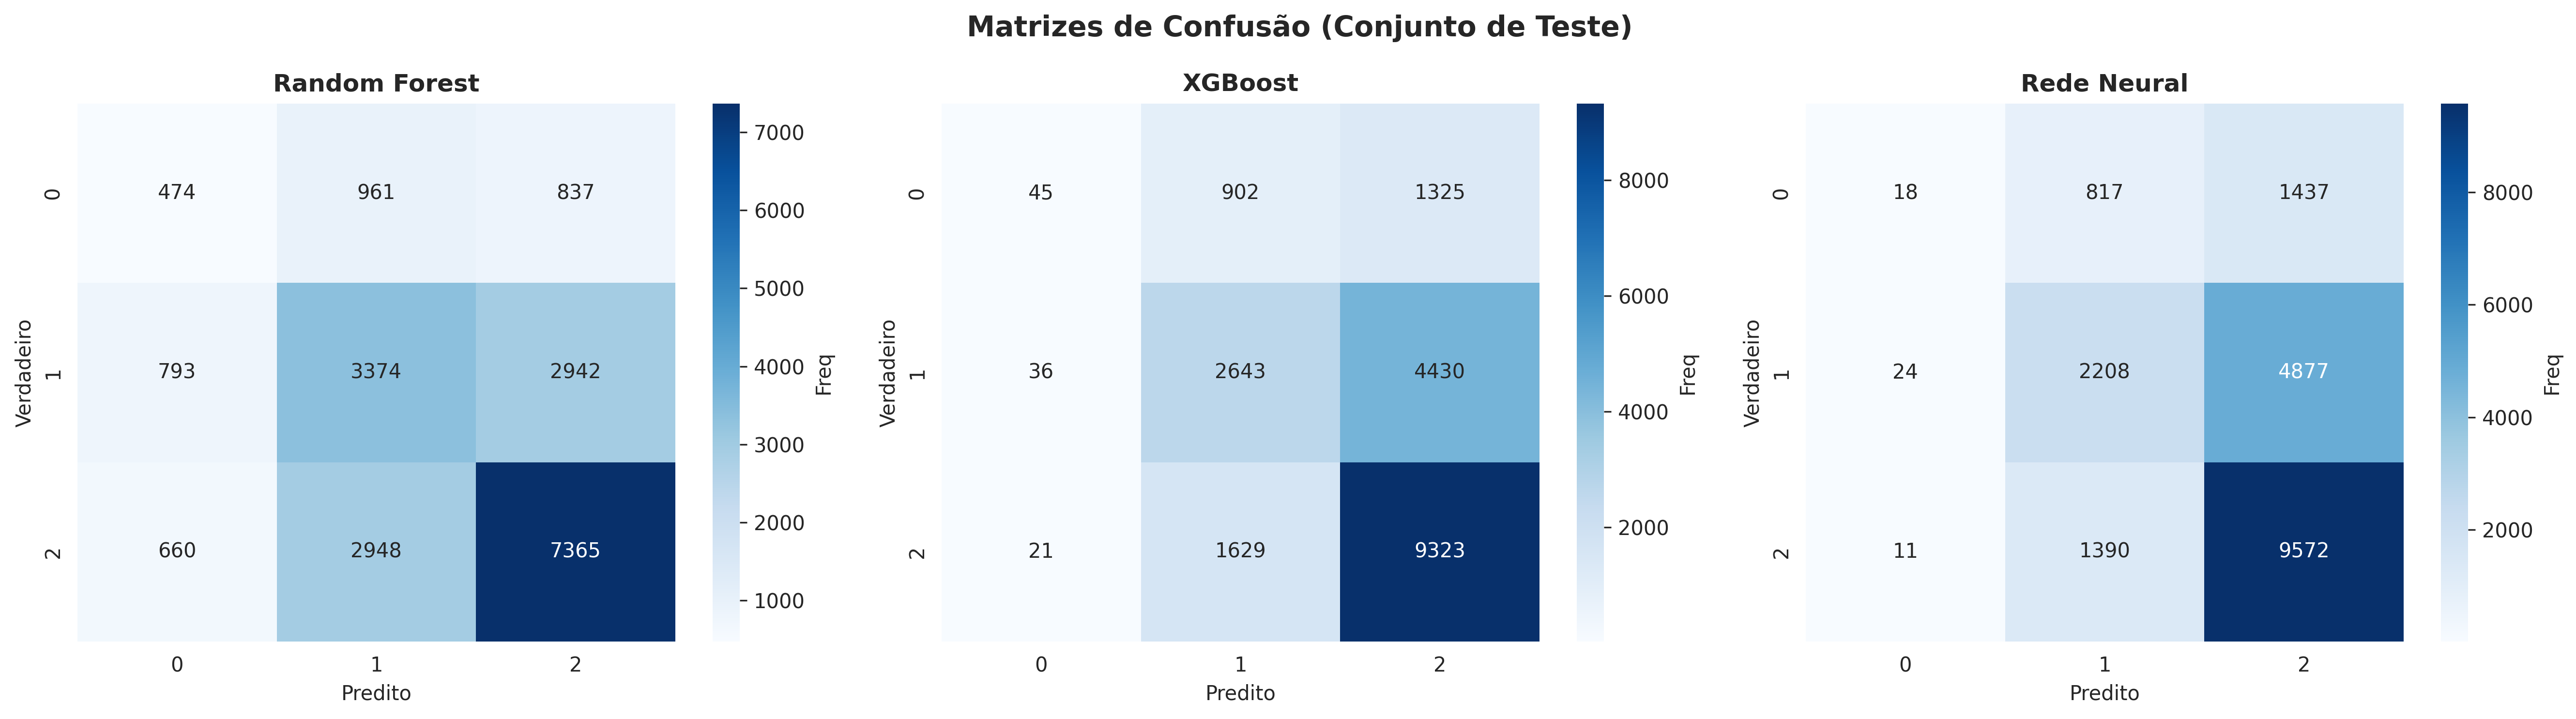
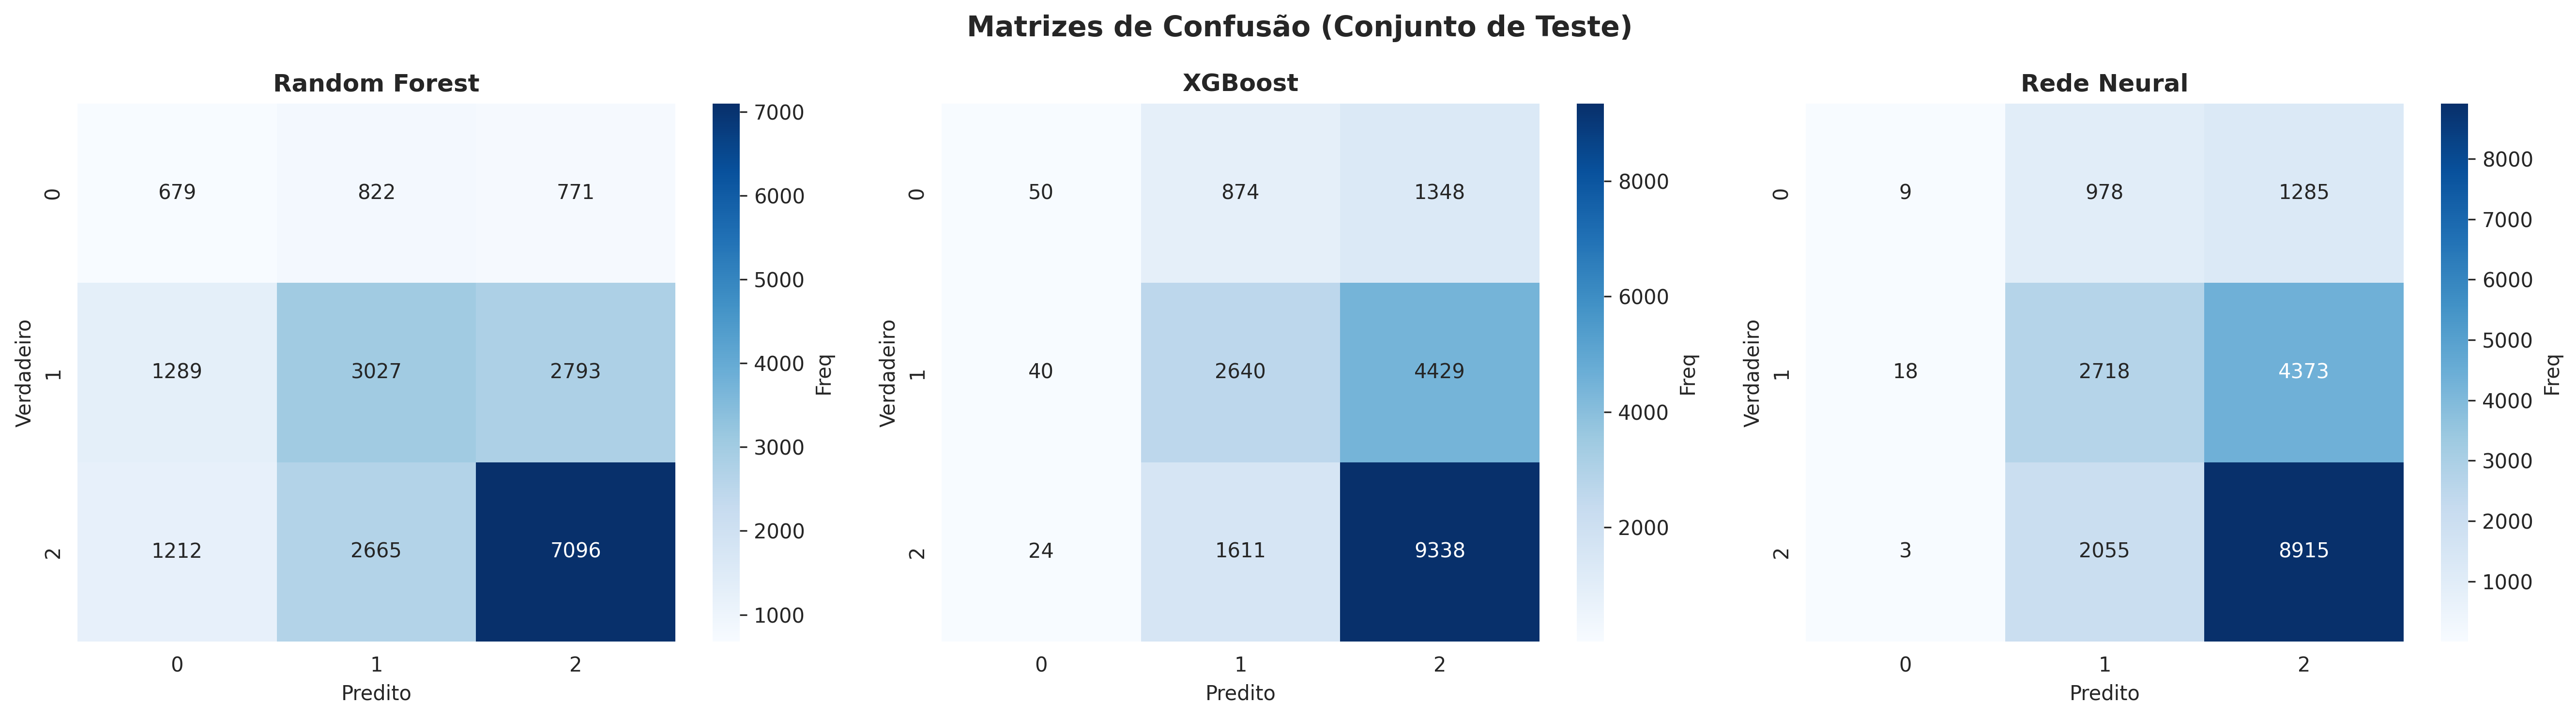
Use one-hot encoding for categorical features and fix absolute paths

diff --git a/src/preprocess_diabetes.py b/src/preprocess_diabetes.py
@@ -1,12 +1,42 @@
-#Preprocessamento do Dataset Diabetes 130-US Hospitals for Years 1999-2008
-#Dataset: https://archive.ics.uci.edu/dataset/296/diabetes+130-us+hospitals+for+years[phone redacted]
+# Preprocessamento do Dataset Diabetes 130-US Hospitals for Years 1999-2008
+# Dataset: https://archive.ics.uci.edu/dataset/296/diabetes+130-us+hospitals+for+years[phone redacted]
 
-import pandas as pd
-import numpy as np
-from sklearn.preprocessing import LabelEncoder
-from ucimlrepo import fetch_ucirepo
+from pathlib import Path
+import re
 import warnings
-warnings.filterwarnings('ignore')
+
+import numpy as np
+import pandas as pd
+from ucimlrepo import fetch_ucirepo
+
+warnings.filterwarnings("ignore")
+
+PROJECT_ROOT = Path(__file__).resolve().parents[1]
+TARGET_COL = "readmitted"
+
+
+def sanitize_column_names(df):
+    clean_columns = []
+    seen = {}
+
+    for col in df.columns:
+        clean = re.sub(r"[\[\]<>]", "", str(col))
+        clean = re.sub(r"[^0-9a-zA-Z_]+", "_", clean).strip("_")
+        clean = clean or "feature"
+
+        if clean in seen:
+            seen[clean] += 1
+            clean = f"{clean}_{seen[clean]}"
+        else:
+            seen[clean] = 0
+
+        clean_columns.append(clean)
+
+    df = df.copy()
+    df.columns = clean_columns
+    return df
+
+
 def load_data():
     print("[Carregando dataset]")
     diabetes = fetch_ucirepo(id=296)
@@ -15,6 +45,8 @@ def load_data():
     df = pd.concat([X, y], axis=1)
     print(f"Dataset carregado: {df.shape[0]} linhas, {df.shape[1]} colunas")
     return df
+
+
 def handle_missing_values(df):
     print("\n--- Tratamento de Valores Faltantes ---")
     missing = df.isnull().sum()
@@ -22,79 +54,122 @@ def handle_missing_values(df):
         print(f"Colunas com valores faltantes:\n{missing[missing > 0]}")
     else:
         print("Nenhum valor faltante encontrado (NaN)")
-    df.replace('?', np.nan, inplace=True)
+
+    df = df.replace("?", np.nan)
+
     numeric_cols = df.select_dtypes(include=[np.number]).columns
     for col in numeric_cols:
         if df[col].isnull().sum() > 0:
-            df[col].fillna(df[col].median(), inplace=True)
+            df[col] = df[col].fillna(df[col].median())
             print(f"  {col}: preenchido com mediana")
-    categorical_cols = df.select_dtypes(include=['object']).columns
+
+    categorical_cols = df.select_dtypes(include=["object"]).columns
     for col in categorical_cols:
         if df[col].isnull().sum() > 0:
-            df[col].fillna(df[col].mode()[0], inplace=True)
+            df[col] = df[col].fillna(df[col].mode()[0])
             print(f"  {col}: preenchido com moda")
+
     return df
+
+
 def remove_duplicates(df):
-    print("\n--- Remoção de Duplicatas ---")
+    print("\n--- Remocao de Duplicatas ---")
     initial_shape = df.shape[0]
-    df.drop_duplicates(inplace=True)
+    df = df.drop_duplicates()
     removed = initial_shape - df.shape[0]
     print(f"Registros removidos: {removed}")
     return df
+
+
 def encode_categorical(df):
-    print("\n--- Codificação de Variáveis Categóricas ---")
-    categorical_cols = df.select_dtypes(include=['object']).columns
-    label_encoders = {}
-    for col in categorical_cols:
-        le = LabelEncoder()
-        df[col] = le.fit_transform(df[col].astype(str))
-        label_encoders[col] = le
-        print(f"  {col}: {len(le.classes_)} classes codificadas")
+    print("\n--- Codificacao de Variaveis Categoricas (One-Hot Encoding) ---")
+    categorical_cols = [
+        col for col in df.select_dtypes(include=["object"]).columns
+        if col != TARGET_COL
+    ]
+
+    if categorical_cols:
+        for col in categorical_cols:
+            print(f"  {col}: {df[col].nunique()} categorias")
+        df = pd.get_dummies(df, columns=categorical_cols, drop_first=False, dtype=int)
+        print(f"Features apos One-Hot Encoding: {df.shape[1] - 1}")
+    else:
+        print("Nenhuma feature categorica encontrada")
+
+    if TARGET_COL in df.columns and df[TARGET_COL].dtype == "object":
+        target_mapping = {"<30": 0, ">30": 1, "NO": 2}
+        df[TARGET_COL] = df[TARGET_COL].map(target_mapping)
+        print(f"  {TARGET_COL}: codificado como {target_mapping}")
+
+    if TARGET_COL in df.columns:
+        feature_cols = [col for col in df.columns if col != TARGET_COL]
+        df = df[feature_cols + [TARGET_COL]]
+
+    df = sanitize_column_names(df)
     return df
+
+
 def remove_low_variance_features(df, threshold=0.01):
-    print(f"\n--- Remoção de Features com Baixa Variância (threshold={threshold}) ---")
+    print(f"\n--- Remocao de Features com Baixa Variancia (threshold={threshold}) ---")
     numeric_cols = df.select_dtypes(include=[np.number]).columns
     cols_to_drop = []
+
     for col in numeric_cols:
+        if col == TARGET_COL:
+            continue
         variance = df[col].var()
         if variance < threshold:
             cols_to_drop.append(col)
+
     if cols_to_drop:
         print(f"Features removidas: {cols_to_drop}")
-        df.drop(cols_to_drop, axis=1, inplace=True)
+        df = df.drop(cols_to_drop, axis=1)
     else:
-        print("Nenhuma feature com baixa variância encontrada")
+        print("Nenhuma feature com baixa variancia encontrada")
+
     return df
+
+
 def get_basic_statistics(df):
-    print("\n--- Estatísticas Básicas ---")
+    print("\n--- Estatisticas Basicas ---")
     print(f"Shape final: {df.shape}")
     print(f"\nTipos de dados:\n{df.dtypes.value_counts()}")
-    print(f"\nEstatísticas descritivas:\n{df.describe()}")
+    print(f"\nEstatisticas descritivas:\n{df.describe()}")
+
+
 def preprocess_pipeline(df):
     print("=" * 60)
     print("INICIANDO PREPROCESSAMENTO DO DATASET DIABETES")
     print("=" * 60)
+
     df = handle_missing_values(df)
     df = remove_duplicates(df)
     df = encode_categorical(df)
     df = remove_low_variance_features(df)
     get_basic_statistics(df)
+
     print("\n" + "=" * 60)
-    print("PREPROCESSAMENTO CONCLUÍDO COM SUCESSO")
+    print("PREPROCESSAMENTO CONCLUIDO COM SUCESSO")
     print("=" * 60)
     return df
+
+
 def main():
     try:
         df = load_data()
-        print(f"\nPrimeiras linhas do dataset:")
+        print("\nPrimeiras linhas do dataset:")
         print(df.head())
+
         df_processed = preprocess_pipeline(df)
-        output_path = '/home/joao/Projetos/IC-FINAL/dataset/diabetes_processed.csv'
+        output_path = PROJECT_ROOT / "dataset" / "diabetes_processed.csv"
+        output_path.parent.mkdir(exist_ok=True)
         df_processed.to_csv(output_path, index=False)
         print(f"\nDataset processado salvo em: {output_path}")
         return df_processed
     except Exception as e:
         print(f"Erro durante o processamento: {str(e)}")
         raise
+
+
 if __name__ == "__main__":
     df_processed = main()

diff --git a/src/model_training.py b/src/model_training.py
@@ -6,6 +6,7 @@ import numpy as np
 import matplotlib.pyplot as plt
 import seaborn as sns
 from pathlib import Path
+import re
 import warnings
 from sklearn.model_selection import train_test_split
 from sklearn.preprocessing import StandardScaler
@@ -21,13 +22,37 @@ warnings.filterwarnings('ignore')
 sns.set_style("whitegrid")
 plt.rcParams['figure.figsize'] = (14, 8)
 
+PROJECT_ROOT = Path(__file__).resolve().parents[1]
+
+def sanitize_column_names(df):
+    clean_columns = []
+    seen = {}
+
+    for col in df.columns:
+        clean = re.sub(r"[\[\]<>]", "", str(col))
+        clean = re.sub(r"[^0-9a-zA-Z_]+", "_", clean).strip("_")
+        clean = clean or "feature"
+
+        if clean in seen:
+            seen[clean] += 1
+            clean = f"{clean}_{seen[clean]}"
+        else:
+            seen[clean] = 0
+
+        clean_columns.append(clean)
+
+    df = df.copy()
+    df.columns = clean_columns
+    return df
+
 class ModelTrainer:
     def __init__(self, csv_path, random_state=42):
         self.random_state = random_state
-        self.output_dir = Path('/home/joao/Projetos/IC-FINAL/output')
-        self.models_dir = Path('/home/joao/Projetos/IC-FINAL/models')
+        self.output_dir = PROJECT_ROOT / 'output'
+        self.models_dir = PROJECT_ROOT / 'models'
+        self.output_dir.mkdir(exist_ok=True)
         self.models_dir.mkdir(exist_ok=True)
-        self.df = pd.read_csv(csv_path)
+        self.df = sanitize_column_names(pd.read_csv(csv_path))
         self._prepare_data()
         print(f"Dataset carregado: {self.X.shape[0]} amostras × {self.X.shape[1]} features")
         print(f"Distribuição de classes:\n{self.y.value_counts().to_string()}")
@@ -274,7 +299,7 @@ Dataset: Diabetes 130-US Hospitals 1999-2008
         print("TREINAMENTO CONCLUÍDO!")
         print("="*80)
 def main():
-    csv_path = '/home/joao/Projetos/IC-FINAL/dataset/diabetes_processed.csv'
+    csv_path = PROJECT_ROOT / 'dataset' / 'diabetes_processed.csv'
     try:
         trainer = ModelTrainer(csv_path)
         trainer.run_full_training()

diff --git a/src/exploratory_analysis.py b/src/exploratory_analysis.py
@@ -10,11 +10,13 @@ sns.set_style("whitegrid")
 plt.rcParams['figure.figsize'] = (16, 12)
 plt.rcParams['font.size'] = 10
 
+PROJECT_ROOT = Path(__file__).resolve().parents[1]
+
 class ExploratoryAnalysis:
     def __init__(self, csv_path):
         self.df = pd.read_csv(csv_path)
-        self.output_dir = Path('/home/joao/Projetos/IC-FINAL/output/analise_exploratoria')
-        self.output_dir.mkdir(exist_ok=True)
+        self.output_dir = PROJECT_ROOT / 'output' / 'analise_exploratoria'
+        self.output_dir.mkdir(parents=True, exist_ok=True)
         print(f"Dataset carregado: {self.df.shape[0]} linhas × {self.df.shape[1]} colunas")
     def analyze_basic_statistics(self):
         print("\n" + "="*80)
@@ -277,7 +279,7 @@ FIM DO RELATÓRIO
         self.plot_feature_variance()
         self.generate_summary_report()
 def main():
-    csv_path = '/home/joao/Projetos/IC-FINAL/dataset/diabetes_processed.csv'
+    csv_path = PROJECT_ROOT / 'dataset' / 'diabetes_processed.csv'
     try:
         analysis = ExploratoryAnalysis(csv_path)
         analysis.run_full_analysis()

diff --git a/README.md b/README.md
@@ -62,12 +62,12 @@ git clone Jottynha/IC-FINAL.git
 cd IC-FINAL
 # Instale as dependências necessárias
 pip install -r requirements.txt
-# [Opcional] Execute a analise exploratória dos dados 
-python3 exploratory_analysis.py
 # Execute o preprocessamento dos dados
-python3 preprocess_diabetes.py
+python3 src/preprocess_diabetes.py
+# [Opcional] Execute a analise exploratória dos dados 
+python3 src/exploratory_analysis.py
 # Treine os modelos de aprendizado de máquina
-python3 model_training.py
+python3 src/model_training.py
 ```
 ## Artefatos gerados
 - `output/`: Diretório contendo os resultados dos experimentos, incluindo métricas de desempenho, gráficos e relatórios gerados durante a análise.